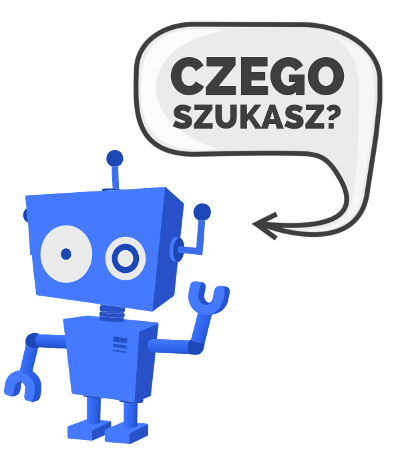
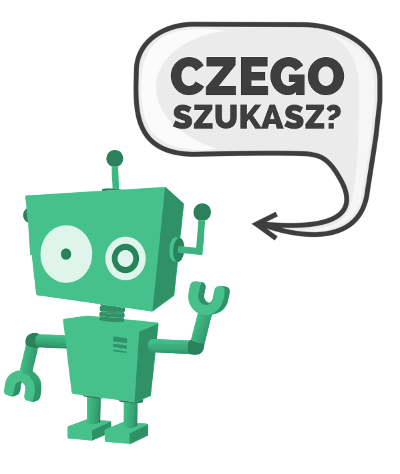
Playing with CSS

Changed region(s): [[0.0, 0.2954, 0.57, 0.9451]]

diff --git a/src/app/search/search.component.css b/src/app/search/search.component.css
@@ -35,3 +35,12 @@
     margin-left: -100px;
     margin-top: 150px;
   }
+  .btn-primary{
+    background-color: #2FCC91;
+    border-color: #2FCC91;
+  }
+  .btn-primary:hover{
+    background-color: #fff;
+    border-color: #2FCC91;
+    color: #2FCC91;
+  }
